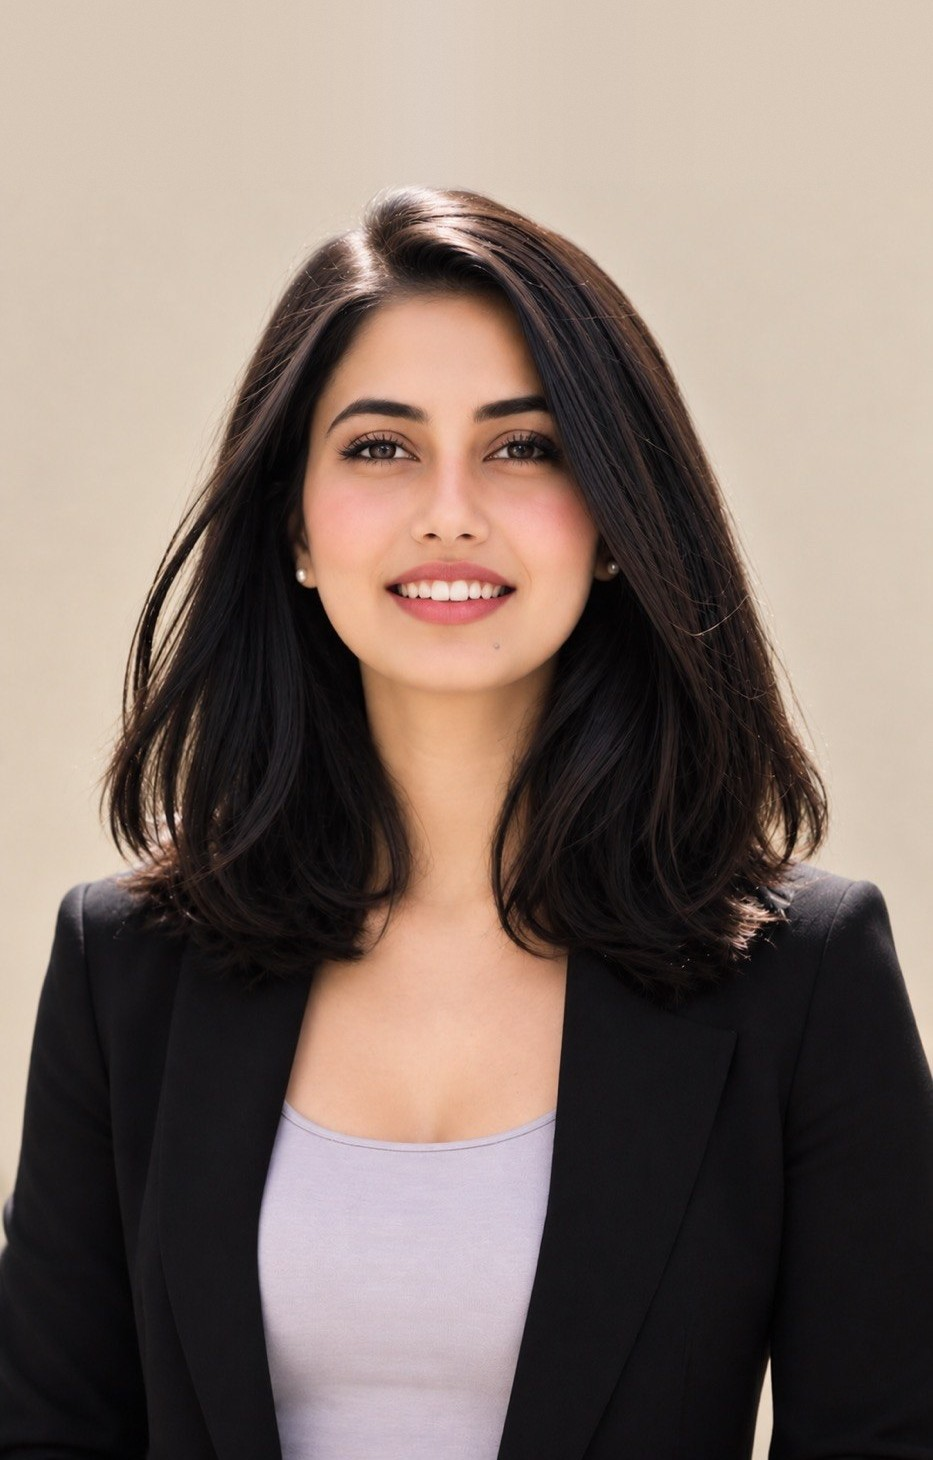
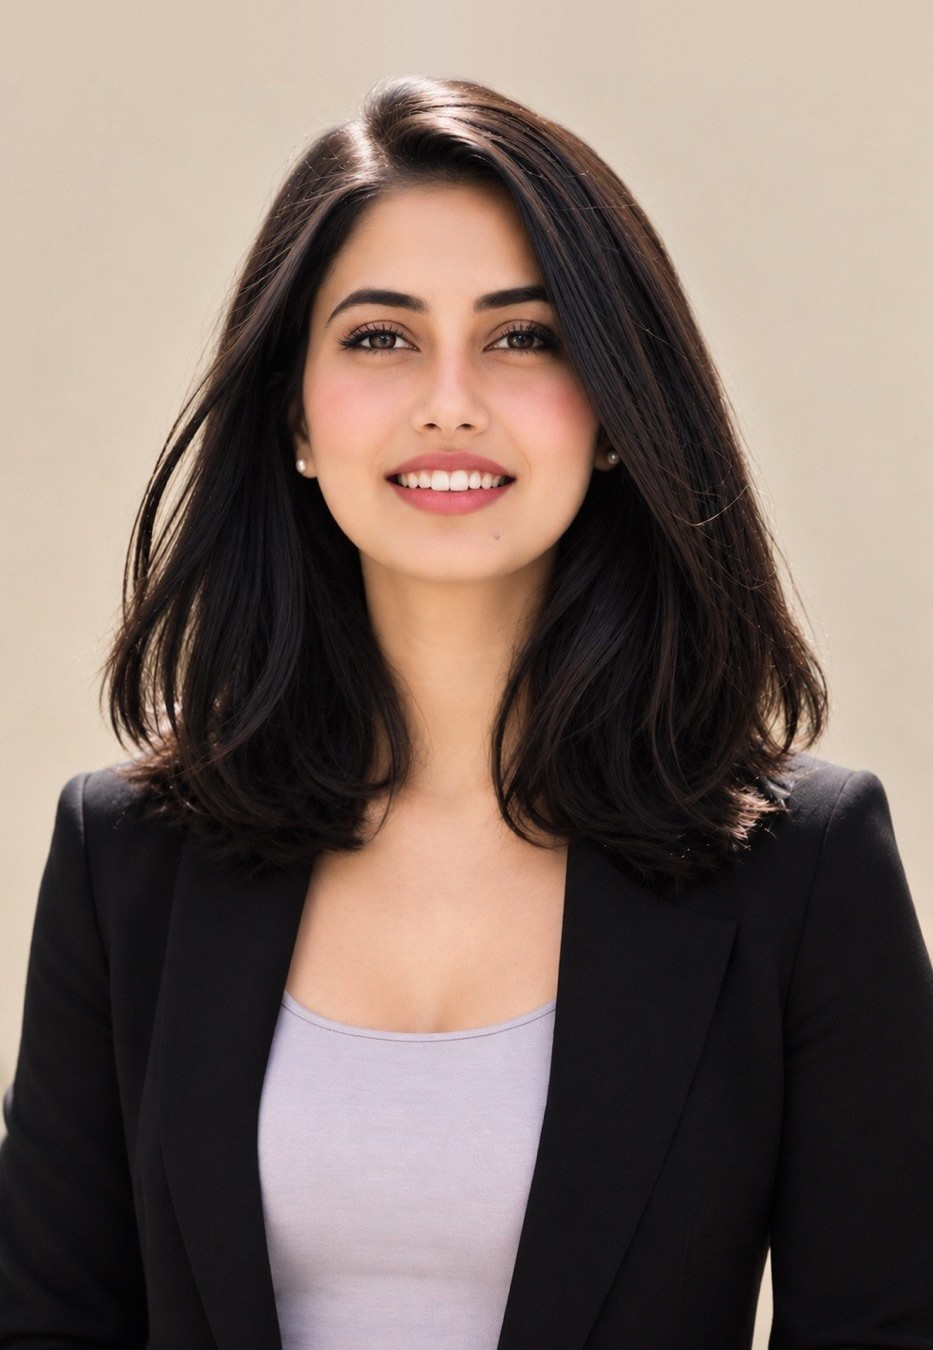
Reduce hero portrait headroom to 70px (#108)
* Replace hero profile photo

Claude-Session: https://claude.ai/code/session_01AzR9C6W97ninb1X9sfMRBP

* Serve new portrait at /images/profile.png

Claude-Session: https://claude.ai/code/session_01AzR9C6W97ninb1X9sfMRBP

* Show hero photo at its natural portrait height

Claude-Session: https://claude.ai/code/session_01AzR9C6W97ninb1X9sfMRBP

* Add headroom above the hero portrait

Claude-Session: https://claude.ai/code/session_01AzR9C6W97ninb1X9sfMRBP

* Reduce headroom above the hero portrait

Claude-Session: https://claude.ai/code/session_01AzR9C6W97ninb1X9sfMRBP

* Set hero portrait headroom to 120px

Claude-Session: https://claude.ai/code/session_01AzR9C6W97ninb1X9sfMRBP

* Set hero portrait headroom to 90px

Claude-Session: https://claude.ai/code/session_01AzR9C6W97ninb1X9sfMRBP

* Set hero portrait headroom to 70px

Claude-Session: https://claude.ai/code/session_01AzR9C6W97ninb1X9sfMRBP

---------

diff --git a/layouts/landing/list.html b/layouts/landing/list.html
@@ -136,7 +136,7 @@ nav{
   border-radius:18px;overflow:hidden;
   background:linear-gradient(160deg,var(--cream) 0%,var(--blush) 45%,var(--rose) 100%);
   border:1px solid var(--rule);
-  aspect-ratio:933/1460;width:100%;
+  aspect-ratio:933/1350;width:100%;
   display:flex;flex-direction:column;align-items:center;justify-content:center;gap:.75rem;
   position:relative;cursor:pointer;
   box-shadow:0 8px 40px rgba(39,21,16,.08);
@@ -601,7 +601,7 @@ footer span{font-size:.7rem;font-weight:600;color:rgba(255,255,255,.55);letter-s
   .pub-links{flex-direction:row;align-items:flex-start;}
   .ticker{display:none;}
   .h-right{flex-direction:column;}
-  .h-photo{flex:none;aspect-ratio:933/1460;width:100%;}
+  .h-photo{flex:none;aspect-ratio:933/1350;width:100%;}
   .hobby-grid{grid-template-columns:repeat(2,1fr);}
   .proj-card{grid-template-columns:1fr;gap:1.5rem;padding:1.5rem;}
 }
